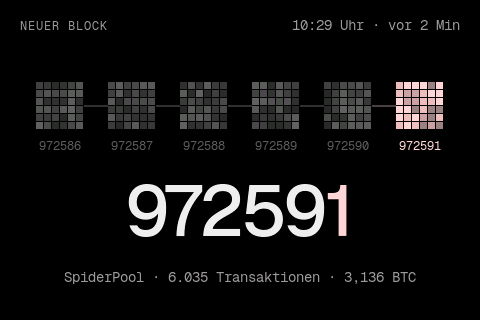
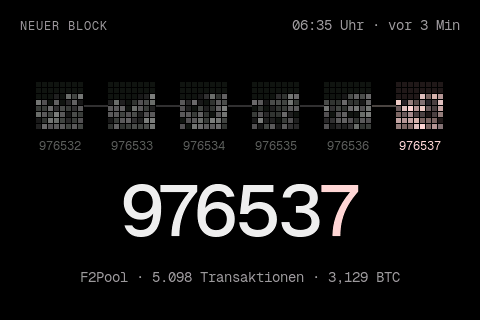
Regie-Einblendung etwas höher; Website: Abschnitt Regie und Akzentfarbe, neue Block-Bilder
Am Gerät geprüft: Aufnahmen aller Karten, Speichern ohne Neustart, PIN,
satoshi-deck.local, Stapel- und Speicherreserven, Regie-Sprung mit Rückkehr.

diff --git a/docs/index.html b/docs/index.html
@@ -264,6 +264,20 @@ footer a{color:var(--text2)}
 
     <div class="split">
       <div>
+        <div class="cap">Regie</div>
+        <h3 style="font-size:30px;letter-spacing:-.8px;margin:10px 0 14px">Zeigt, was gerade passiert.</h3>
+        <p>Statt stur durchzublättern, meldet sich das Deck bei Ereignissen: neuer Block, Kurssprung, Gebührenspitze, Miner zu heiß, neuer Bestwert, frische Schlagzeile, Regen. Für 15 Sekunden erscheint die passende Karte, unten steht kurz der Anlass – danach geht es zurück. Nachts bleibt es still. Die Akzentfarbe wählst du selbst: Rosa, Bitcoin-Orange, Gold, Mint, Eisblau oder Lavendel.</p>
+      </div>
+      <div class="media">
+        <div class="duo">
+          <figure><img src="img/regie.png" alt="Preiskarte mit Regie-Einblendung: Kurs plus 1,2 Prozent in 15 Minuten"><figcaption class="cap">Kurssprung · Akzent Eisblau</figcaption></figure>
+          <figure><img src="img/akzent.png" alt="Karte Neuer Block mit Block-Porträts, Akzent Bitcoin-Orange"><figcaption class="cap">Block-Porträts · Akzent Orange</figcaption></figure>
+        </div>
+      </div>
+    </div>
+
+    <div class="split">
+      <div>
         <div class="cap">Halving</div>
         <h3 style="font-size:30px;letter-spacing:-.8px;margin:10px 0 14px">Die Epoche als Sand.</h3>
         <p>Der ganze Bildschirm steht für die laufende Halving-Epoche aus 210.000 Blöcken – eine Zelle entspricht rund 88 Blöcken. Unten liegt der schon geschürfte Teil, darüber der Rest bis zum Halving. Körner rieseln ständig herab, bei jedem neuen Block fällt ein pinkes auf die Kante.</p>

diff --git a/firmware/main/ui.c b/firmware/main/ui.c
@@ -3204,7 +3204,7 @@ static void regie_show(const regie_hit_t *h)
     if (h->ev == RG_SHARE && !card_on(card)) card = 10; // ohne Lotterie-Karte: Bitaxe
     if (!card_on(card)) return;
     if (card != s_cur) note_jump(card);
-    pill_show(s_rg, s_rg_lbl, h->text, W / 2, H - 38);
+    pill_show(s_rg, s_rg_lbl, h->text, W / 2, H - 52);
     lv_obj_fade_in(s_rg, 250, 0);
     s_rg_until = esp_timer_get_time() / 1000 + 6000;
 }
